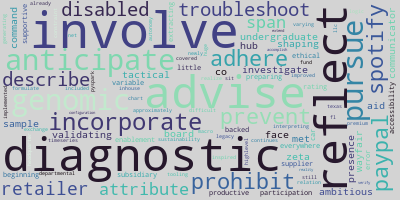
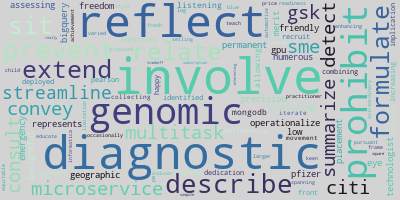
finished parsing monograms down to enhanced

diff --git a/nlp_main.py b/nlp_main.py
@@ -378,7 +378,7 @@ def clean_for_nlp(series_of_interest):
                                             'obtain', 'pricing', 'regular', 'maintenance', 'interested', 'along', 'increase',
                                             'utilize', 'manufacturing', 'built', 'acquisition', 'engage', 'thats', 'submit',
                                             'roadmap', 'coordinate', 'prepare', 'utilizing', 'foundation', 'encourage', 'cycle',
-                                            'course', 'vendor', 'become', 'device', 'smart', 'ass', 'effectiveness', 'mean',
+                                            'vendor', 'become', 'device', 'smart', 'ass', 'effectiveness', 'mean',
                                             'adoption', 'located', 'preferably', 'division', 'mindset', 'scope', 'exposure',
                                             'progress', 'transforming', 'lab', 'enabling', 'interaction',  'look', 'promote',
                                             'example', 'foster', 'specification', 'associated', 'daily', 'realtime', 'campaign',
@@ -430,7 +430,7 @@ def clean_for_nlp(series_of_interest):
                                             'comply', 'respond', 'derive', 'message',  'easily', 'recent', 'journal', 'lending',
                                             'networking', 'continually', 'workshop', 'economy', 'completed', 'choose',
                                             'utilization', 'alongside', 'demonstrable',  'administrative', 'named', 'created',
-                                            'last', 'dream', 'requisition', 'invest', 'section', 'apple', 
+                                            'last', 'dream', 'requisition', 'invest', 'section', 'apple', 'combining', 'committee',
                                             'held', 'authority', 'deal', 'managed', 'contributes', 'daytoday', 'iot', 'toward',
                                             'achieving', 'learner', 'spirit', 'fee', 'agent', 'certain',  'cc', 'transition',
                                             'roadmaps', 'emr', 'champion', 'virginia', 'region', 'failure', 'establishing',
@@ -464,7 +464,30 @@ def clean_for_nlp(series_of_interest):
                                             'actuarial', 'collective', 'coordinating', 'addressing', '9', 'motor', 'assisting',
                                             'biomedical', 'estimate', 'targeting', 'screen', 'maximum', 'cultural', 'promise',
                                             'initial', 'wayfair', 'living', 'ops', 'concern', 'cell', 'music', 'stipend', 'invite',
-                                            'determined']))) + ds_skills_combined
+                                            'determined', 'profiling', 'eye', 'multitask', 'merit', 'represents', 'assessing',
+                                            'emergency', 'freedom', 'numerous', 'friendly', 'technologist', 'permanent',
+                                            'placement', 'insightful', 'low', 'citi', 'formulate', 'allowing', 'deployed',
+                                            'involves', 'front', 'manual', 'recruit', 'pioneer', 'increasing', 'happy', 'reflects',
+                                            'dedication', 'construct', 'implication', 'identified', 'convey', 'movement',
+                                            'selfservice', 'occasionally', 'summarize', 'pursuant', 'involve', 'larger', 'price',
+                                            'fresh', 'achievement', 'varied', 'teach', 'competing', 'eoe', 'blue', 'operationalize',
+                                            'extraordinary', 'practitioner', 'spanning', 'style', 'readiness', 'prevent', 'pfizer',
+                                            'enhancing', 'proposed', 'automotive', 'child', 'ic', 'prohibits', 'keen', 'log',
+                                            'limitation', 'selling', 'frame', 'equitable', 'square', 'subscription', 'interesting',
+                                            'tradeoff', 'expense', 'describe', 'ranking', 'really', 'reviewing', 'keeping',
+                                            'streamline', 'ranked', 'reserve', 'ny', 'nj', 'conflict', 'initiate',  'atmosphere',
+                                            'pace', 'chemical', 'therapy', 'robotic', 'blog', 'targeted', 'searching', 'extend',
+                                            'ten', 'recently', 'staffing', 'measuring', 'sop', 'filled', 'exhibit', 'ii',
+                                            'transparent', 'representation', 'entry', 'opinion', 'electric', 'speaking',
+                                            'consultation', 'planet', 'consumption', 'climate', 'consistency', 'sit', 'sensitive',
+                                            'picture', 'dollar', 'fastgrowing', 'arrangement', 'regional', 'closing', 'enjoys',
+                                            'knowledgeable', 'attribution', 'break', 'fitness', 'europe', 'thrives', 'increased',
+                                            'milestone', 'incredible', 'everyday', 'researching', 'foreign', 'minority',
+                                            'nonprofit', 'construction', 'simplify', 'suitable', 'pharmacy', 'whose', 'mastery',
+                                            'exempt', 'item', 'cro', 'native', 'intuitive', 'consult', 'participant', 'prevention',
+                                            'official', 'conversion', 'fact', 'ahead', 'diagnostic', 'healthier', 'deloittes',
+                                            'moment', 'gsk', 'philadelphia', 'frontend', 'barrier', 'intersection', 'determining',
+                                            'directed', 'inperson', 'trade',  'forbes', 'enthusiastic', 'fill', 'enhanced']))) + ds_skills_combined
     
     stop_words = nltk.corpus.stopwords.words('english') + additional_stopwords + ds_cred_terms + ds_prof_skill_terms + ds_soft_skill_terms + ds_tech_skill_terms
     
@@ -780,6 +803,8 @@ ds_cred_terms = ['ability',
                  'combination',
                  'computer',
                  'computational', 
+                 'course',
+                 'coursework',
                  'data',
                  'degree',
                  'demonstrated', 
@@ -817,6 +842,7 @@ ds_cred_terms = ['ability',
                  'phd',
                  'physic',
                  'physical',
+                 'polygraph',
                  'portfolio',
                  'practical',
                  'prior',
@@ -862,6 +888,7 @@ ds_tech_skill_terms = ['ab',
                        'accurate', 
                        'accurately',
                        'accuracy',
+                       'adobe', 
                        'adopter',
                        'agile',
                        'agility',
@@ -893,6 +920,7 @@ ds_tech_skill_terms = ['ab',
                      'architect',
                      'architecting',
                      'architecture',
+                     'architectural',
                      'artificial',
                      'asaservice',
                      'assumption',
@@ -908,6 +936,7 @@ ds_tech_skill_terms = ['ab',
                      'behavioral',
                      'bi',
                      'big',
+                     'bigquery',
                      'blockchain',
                      'boosting',
                      'breakthrough',
@@ -929,9 +958,11 @@ ds_tech_skill_terms = ['ab',
                      'coding',
                      'collect',
                      'collected',
+                     'collecting', 
                      'collection',
                      'cognitive',
                      'complex',
+                     'compute',
                      'computer',
                      'computing',
                      'concept',
@@ -964,6 +995,7 @@ ds_tech_skill_terms = ['ab',
                      'designed',
                      'designing',
                      'designer',
+                     'detect',
                      'detection',
                      'develop',
                      'developed',
@@ -1014,6 +1046,8 @@ ds_tech_skill_terms = ['ab',
                      'function',
                      'fundamental',
                      'generation',
+                     'geography',
+                     'geographic',
                      'geospatial',
                      'gcp',
                      'git',
@@ -1034,6 +1068,7 @@ ds_tech_skill_terms = ['ab',
                      'implement',
                      'implementation',
                      'inference',
+                     'informatica',
                      'information',
                      'infrastructure',
                      'ingestion',
@@ -1045,6 +1080,7 @@ ds_tech_skill_terms = ['ab',
                      'interpretation',
                      'interpret',
                      'interpreting',
+                     'iterate', 
                      'iterating',
                      'java',
                      'javascript',
@@ -1075,10 +1111,12 @@ ds_tech_skill_terms = ['ab',
                      'manipulation',
                      'map',
                      'mapping',
+                     'mapreduce',
                      'math',
                      'mathematical',
                      'mathematics',
                      'matlab',
+                     'matplotlib', 
                      'measure',
                      'measurable',
                      'measurement',
@@ -1086,17 +1124,21 @@ ds_tech_skill_terms = ['ab',
                      'method',
                      'methodology',
                      'metric',
+                     'microservices',
                      'microsoft', 
                      'mine',
                      'mining',
                      'ml',
+                     'mlai',
                      'mlops',
                      'model',
                      'modeler',
                      'modeling',
                      'modelling',
                      'modern',
+                     'mongodb',
                      'multivariate',
+                     'mxnet',
                      'mysql',
                      'naive', 
                      'natural',
@@ -1163,6 +1205,7 @@ ds_tech_skill_terms = ['ab',
                      'research',
                      'rest', 
                      'review',
+                     'rigor',
                      'rigorous', 
                      'robotics',
                      's3', 
@@ -1285,6 +1328,7 @@ ds_soft_skill_terms = ['ad',
                      'collaboratively',
                      'collaborating',
                      'collaborates',
+                     'collaborator',
                      'communicate',
                      'communicates',
                      'communicating', 
@@ -1302,6 +1346,7 @@ ds_soft_skill_terms = ['ad',
                      'continuous', 
                      'contribute',
                      'contributor',
+                     'coworkers',
                      'creative',
                      'critical', 
                      'crossfunctional',
@@ -1334,6 +1379,7 @@ ds_soft_skill_terms = ['ad',
                      'fastpaced',
                      'faster',
                      'finding',
+                     'flex',
                      'flexible',
                      'flexibility',
                      'focus',
@@ -1365,6 +1411,9 @@ ds_soft_skill_terms = ['ad',
                      'judgment',
                      'learn',
                      'level',
+                     'listen',
+                     'listening', 
+                     'literature',
                      'making',
                      'management',
                      'manages',
@@ -1390,6 +1439,7 @@ ds_soft_skill_terms = ['ad',
                      'positive', 
                      'powerpoint',
                      'practice',
+                     'precision',
                      'present', 
                      'presentation',
                      'priority',
@@ -1470,6 +1520,7 @@ ds_prof_skill_terms = ['ability',
                        'crossfunctional',
                        'crossfunctionally',
                        'customer', 
+                       'customerfacing',
                        'data',
                        'dataset',
                        'datasets',
@@ -1560,6 +1611,7 @@ ds_prof_skill_terms = ['ability',
                        'partner',
                        'partnering',
                        'peer', 
+                       'pm',
                        'problem',
                        'problemsolving',
                        'process',
@@ -1567,6 +1619,7 @@ ds_prof_skill_terms = ['ability',
                        'professional',
                        'profitability',
                        'program',
+                       'programmatic',
                        'project', 
                        'proposal',
                        'prototype',
